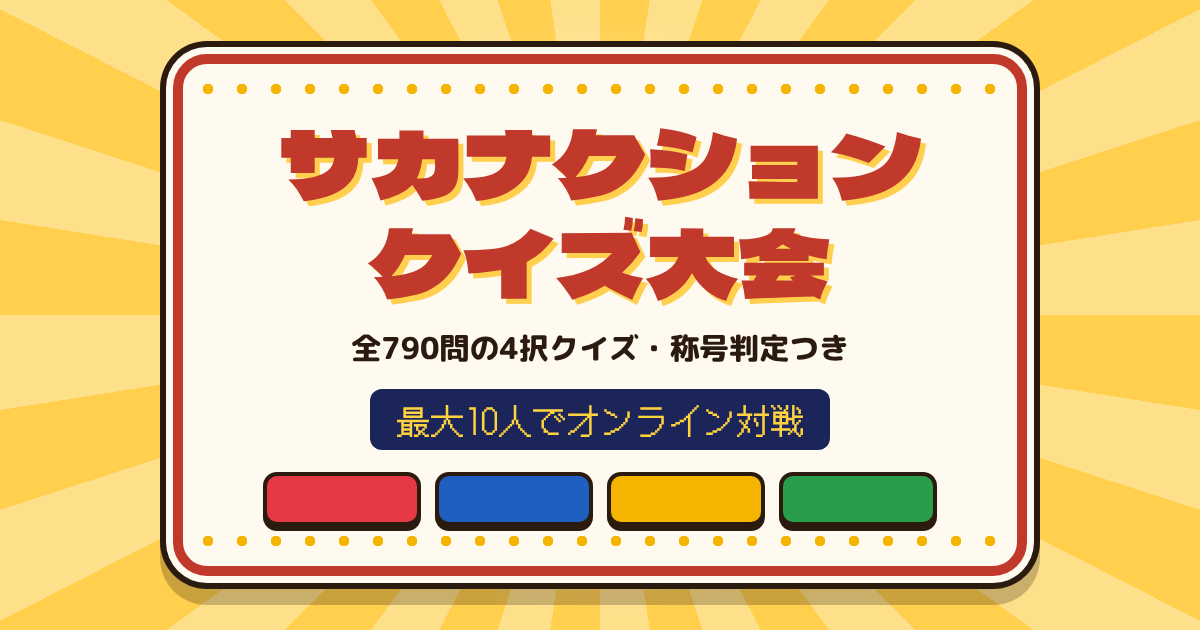
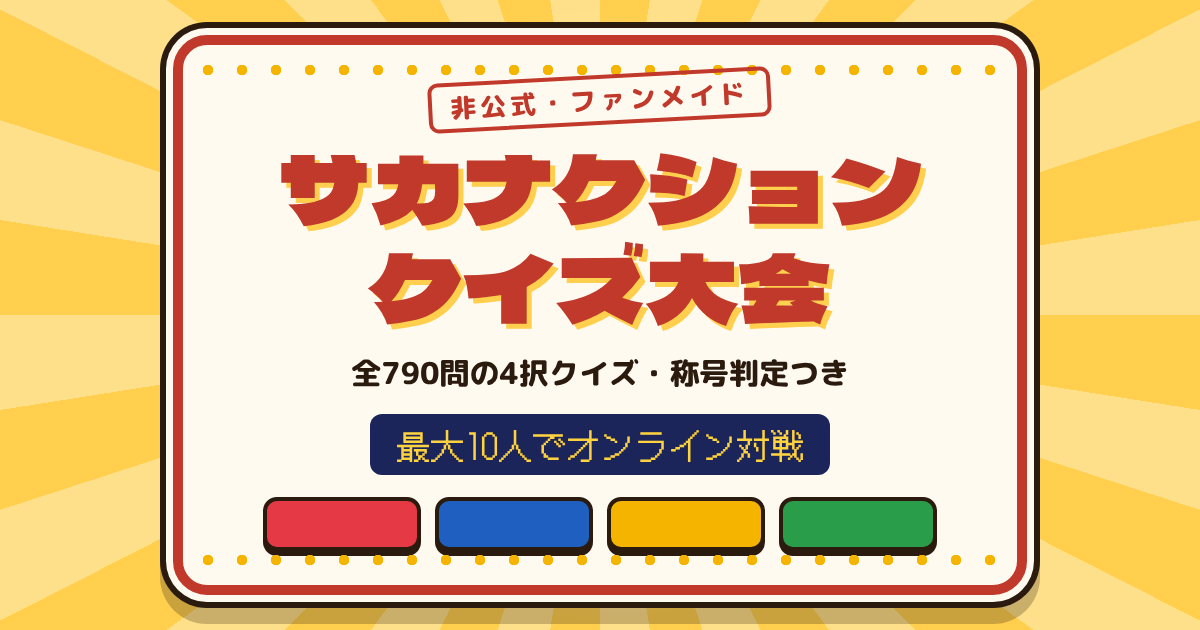
公開版を更新（非公式ラベル・共有画像）
Claude-Session: https://claude.ai/code/session_017rFEjqbqe9du6JyctZ2v2n

diff --git a/sakanaction/index.html b/sakanaction/index.html
@@ -240,7 +240,9 @@ budoux-ja { display: inline; }
 .intro.compact h1 br { display: none; }
 .intro.compact { gap: 8px; }
 @media (max-height: 640px) { .intro.compact .lead { display: none; } }
-.fan-note { word-break: keep-all; overflow-wrap: anywhere; margin: 0; font-size: 10px; color: var(--muted); text-align: center; }
+.fan-note { word-break: keep-all; overflow-wrap: anywhere; margin: 0; font-size: 11px; font-weight: 800; color: var(--ink); text-align: center; }
+/* 非公式であることを示す、はんこ風のラベル */
+.unofficial { justify-self: center; margin-bottom: -6px; padding: 1px 10px; border: 2px solid var(--frame); border-radius: 6px; color: var(--frame); background: var(--board); font-size: 11px; font-weight: 800; letter-spacing: .12em; rotate: -3deg; }
 .toggles { display: flex; gap: 8px; justify-content: center; flex-wrap: wrap; }
 .tgl { display: inline-flex; gap: 6px; align-items: center; border: 2px solid var(--ink); border-radius: 999px; background: var(--board); padding: 3px 4px 3px 12px; font-size: 12px; font-weight: 800; }
 .tgl b { font-family: var(--font-led); font-weight: 400; font-size: 12px; border-radius: 999px; padding: 1px 8px; background: color-mix(in srgb, var(--ink) 15%, transparent); color: var(--muted); }
@@ -619,6 +621,7 @@ function renderIntro() {
   }
   panel.innerHTML = `
     <div class="intro ${party ? "compact" : ""}">
+      <span class="unofficial">非公式・ファンメイド</span>
       <h1>サカナクション<br>クイズ大会</h1>
       <div class="tabs" role="tablist">
         <button role="tab" data-group="solo" aria-selected="${!party}">ひとりで</button>
